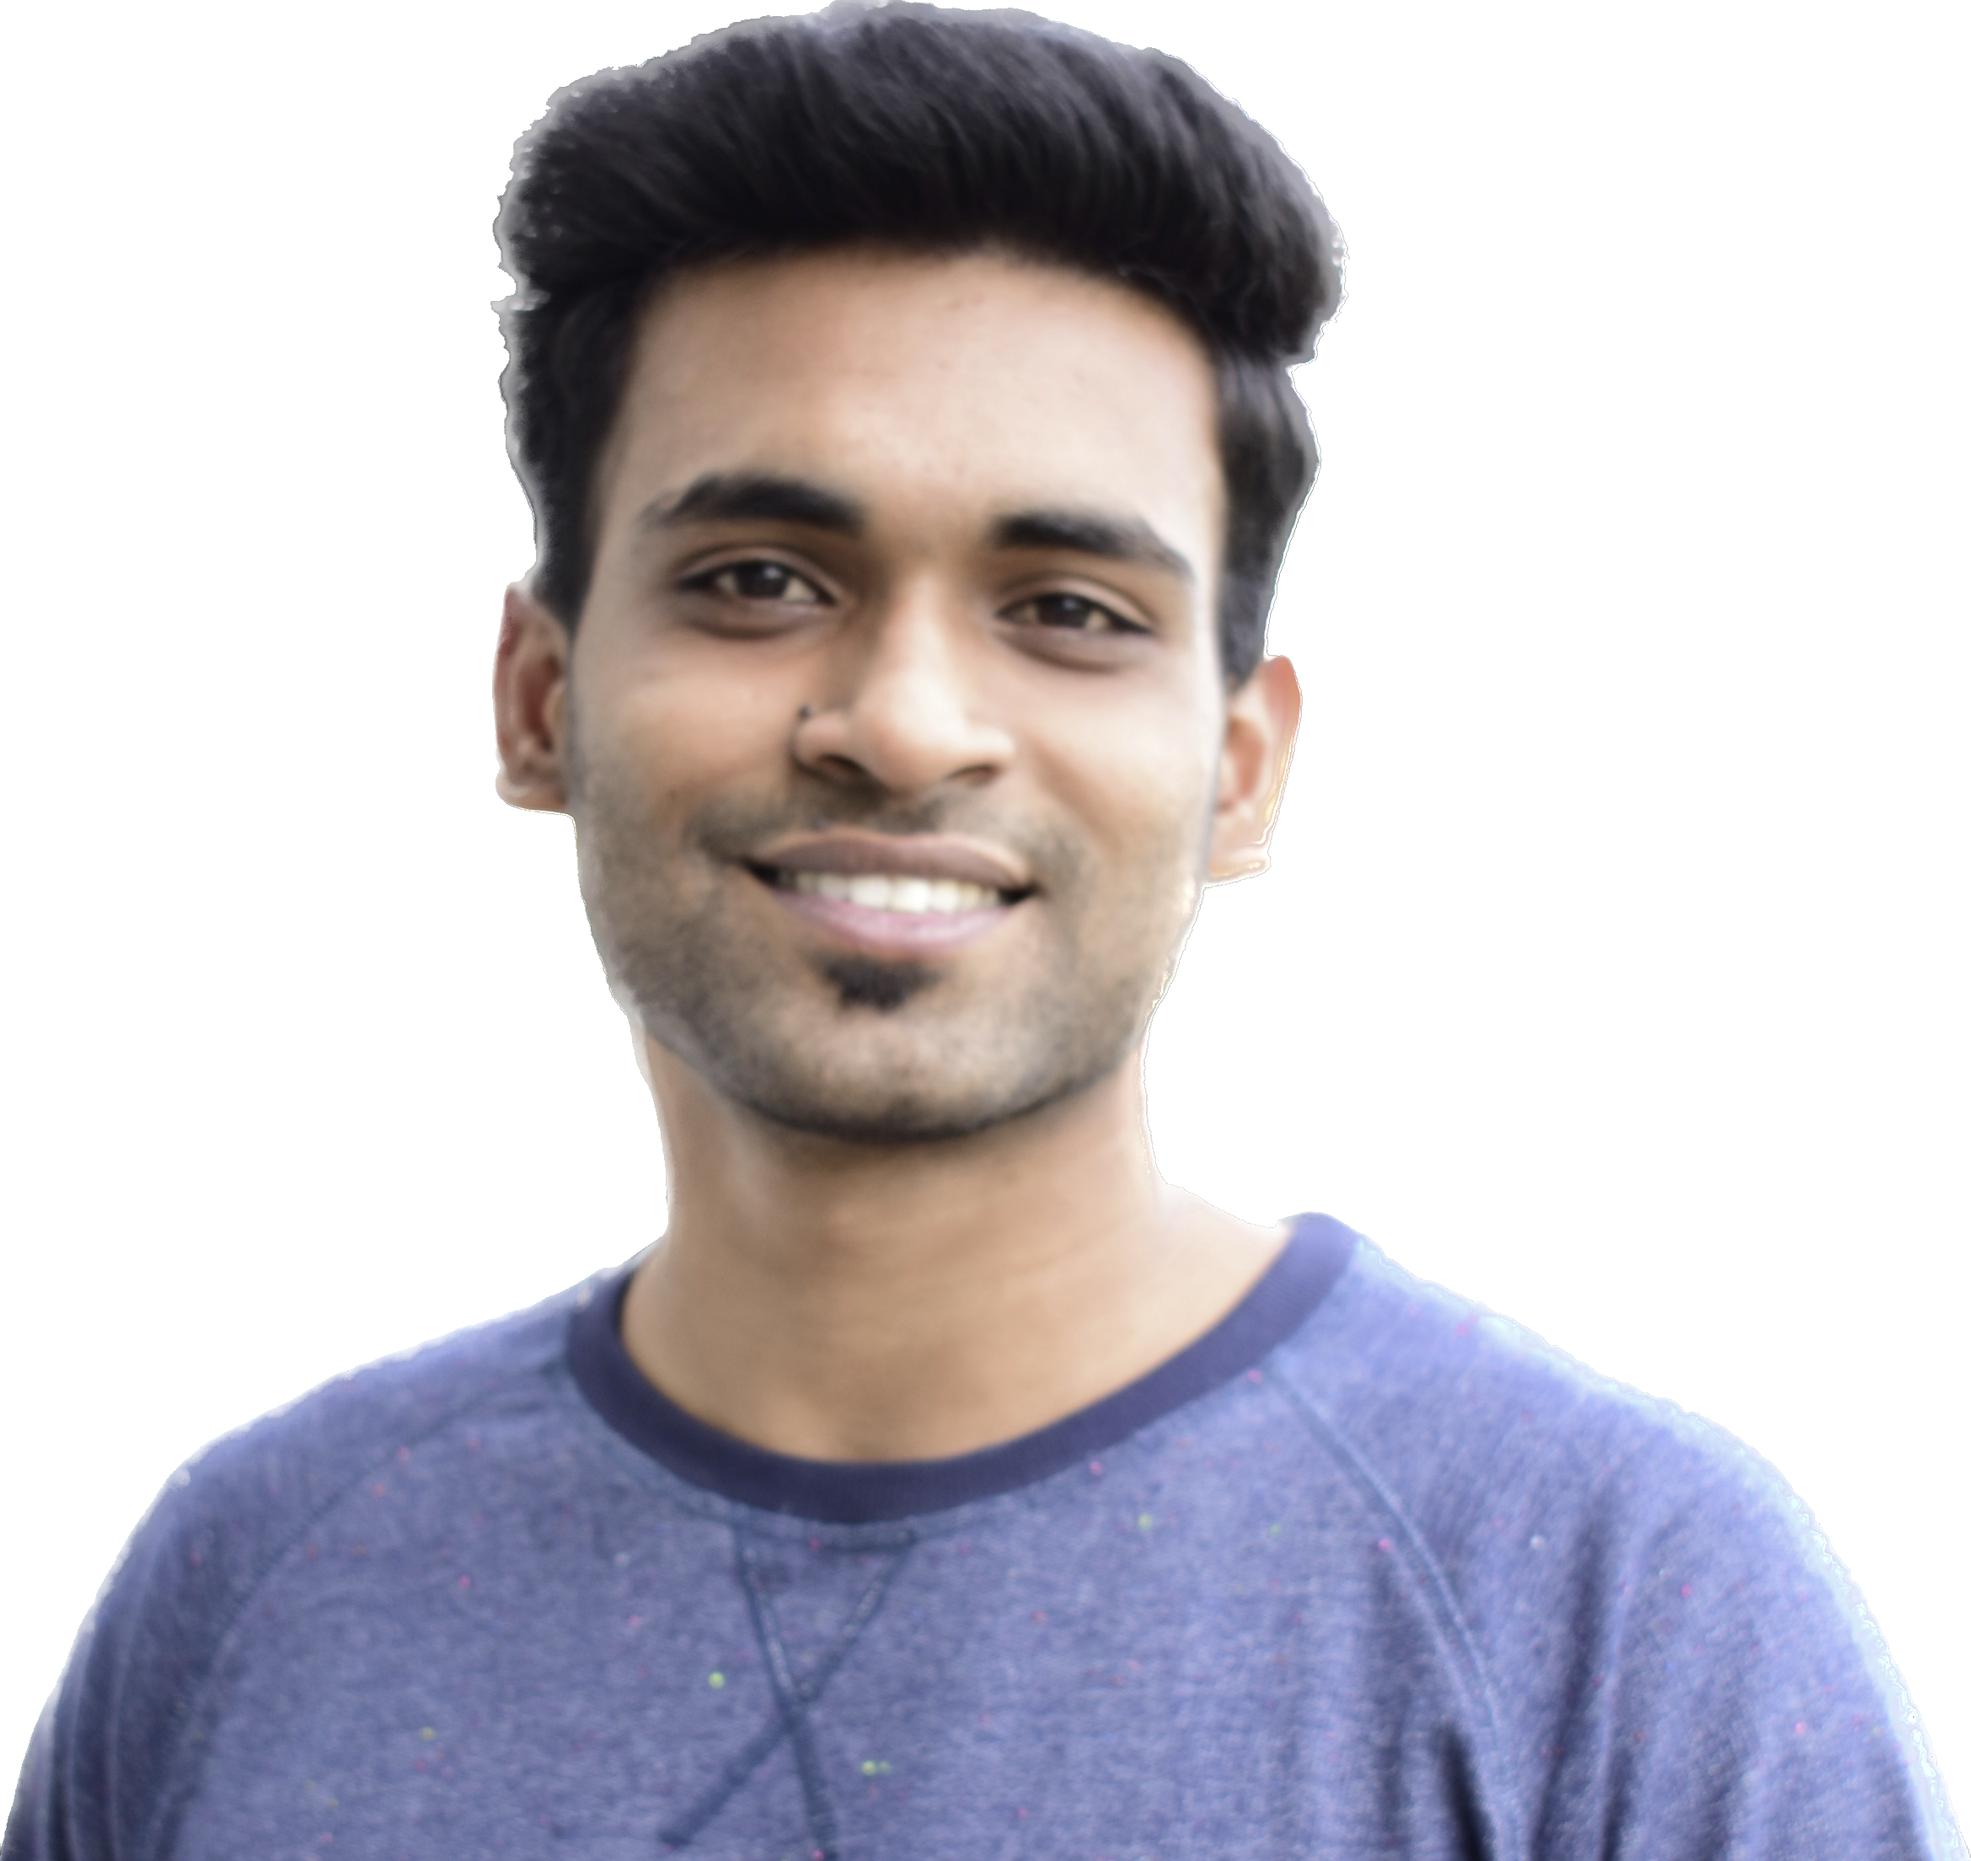
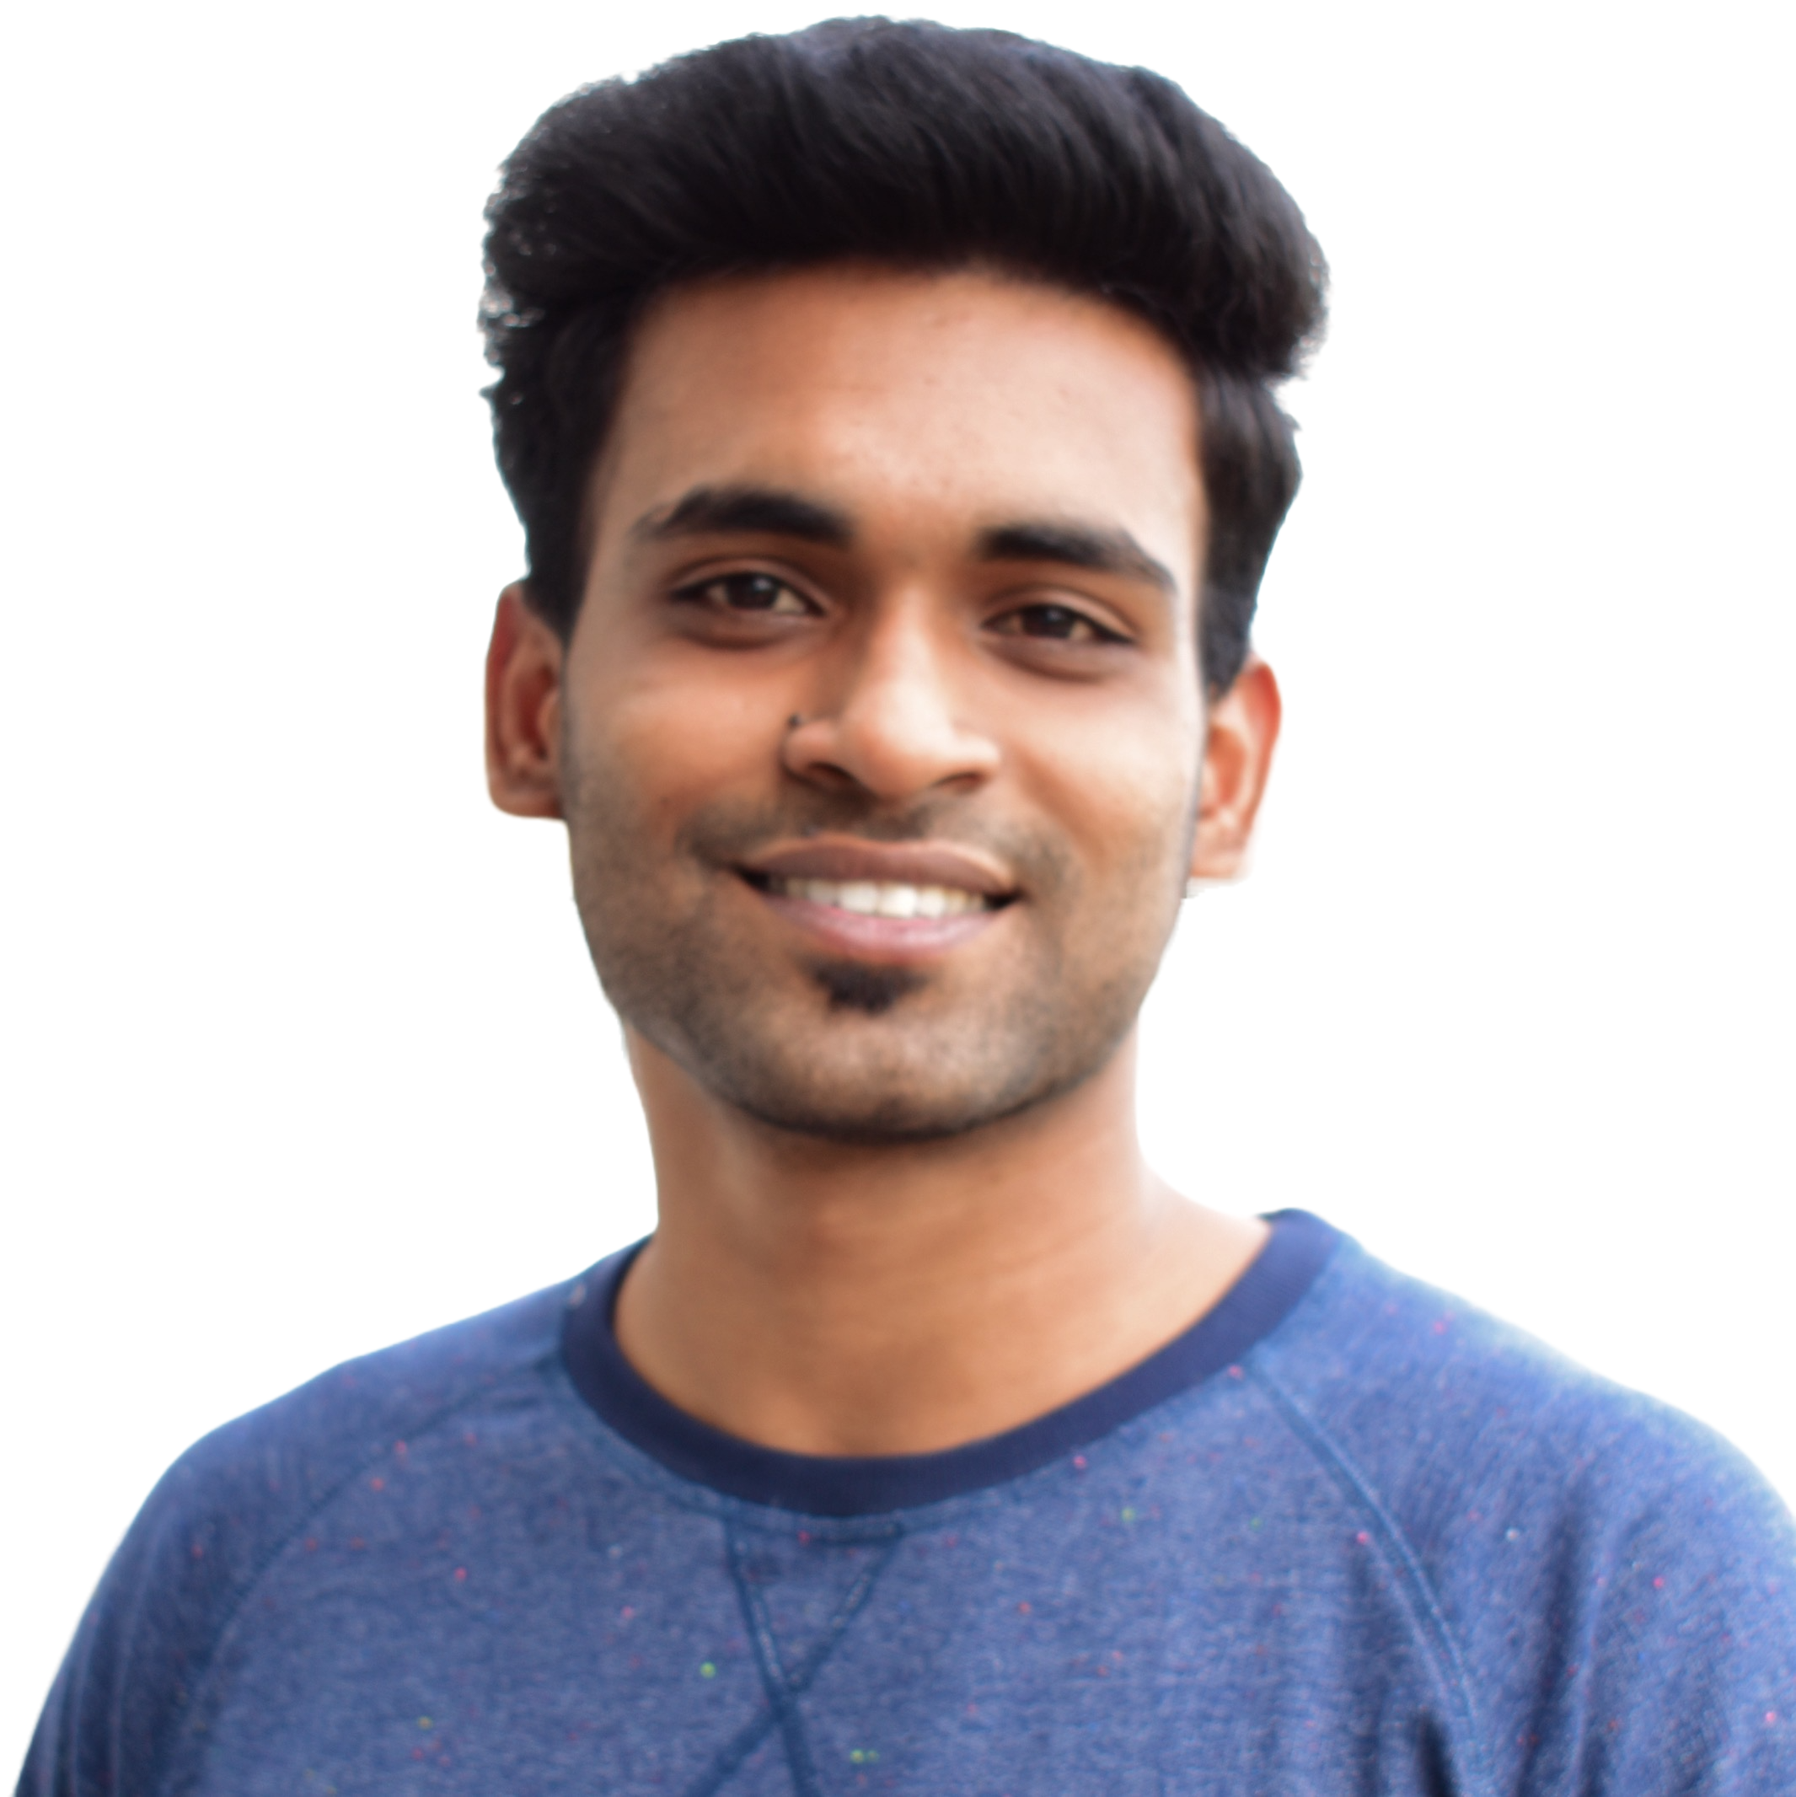
Add hero layout responsiveness

diff --git a/src/components/Hero.js b/src/components/Hero.js
@@ -1,10 +1,38 @@
 import React from "react";
-import myPhoto from "../assets/myPhoto.png";
+import myPhoto from "../assets/myPhoto-mobile.png";
 import "../styles/Hero.css";
 
 const Hero = () => {
   return (
-    <section id="Hero" className="hero-container">
+    <section
+      id="Hero"
+      className="hero-container | padding-inline padding-block"
+    >
+      <svg
+        className="profile-svg"
+        viewBox="0 0 200 187"
+        xmlns="http://www.w3.org/2000/svg"
+        xmlnsXlink="http://www.w3.org/1999/xlink"
+      >
+        <mask id="mask0" mask-type="alpha">
+          <path
+            d="M190.312 36.4879C206.582 62.1187 201.309 102.826 182.328 134.186C163.346 165.547 
+  130.807 187.559 100.226 186.353C69.6454 185.297 41.0228 161.023 21.7403 129.362C2.45775 
+  97.8511 -7.48481 59.1033 6.67581 34.5279C20.9871 10.1032 59.7028 -0.149132 97.9666 
+  0.00163737C136.23 0.303176 174.193 10.857 190.312 36.4879Z"
+          />
+        </mask>
+        <g mask="url(#mask0)">
+          <path
+            fill="#4DDA87"
+            d="M190.312 36.4879C206.582 62.1187 201.309 102.826 182.328 134.186C163.346 
+  165.547 130.807 187.559 100.226 186.353C69.6454 185.297 41.0228 161.023 21.7403 
+  129.362C2.45775 97.8511 -7.48481 59.1033 6.67581 34.5279C20.9871 10.1032 59.7028 
+  -0.149132 97.9666 0.00163737C136.23 0.303176 174.193 10.857 190.312 36.4879Z"
+          />
+          <image href={myPhoto} width={190} />
+        </g>
+      </svg>
       <div className="text-container">
         <h1 className="uppercase fs-primary-subheading fw-semi-bold">
           Hi There! I'm <br />{" "}
@@ -21,7 +49,30 @@ const Hero = () => {
           <a href="#Projects">view projects</a>
         </button>
       </div>
-      <img src={myPhoto} alt="surriya" width="700px" />
+      {/* <img src={myPhoto} alt="surriya" width="500px" /> */}
+      {/* <svg
+        width="600px"
+        viewBox="0 0 200 200"
+        xmlns="http://www.w3.org/2000/svg"
+      >
+        <mask id="mask0" mask-type="alpha">
+          <path
+            fill="#4DDA87"
+            d="M40.1,-69.2C51.2,-63.1,58.9,-50.8,64.7,-38.2C70.5,-25.6,74.5,-12.8,76.3,1C78,14.9,77.6,29.7,70.2,39.5C62.8,49.3,48.4,54,35.5,61.9C22.6,69.8,11.3,80.8,-0.9,82.3C-13,83.8,-26,75.7,-35.4,65.8C-44.7,55.9,-50.3,44.1,-57.2,32.8C-64.1,21.5,-72.3,10.8,-73.7,-0.8C-75,-12.3,-69.4,-24.6,-61.5,-34C-53.5,-43.5,-43.1,-50.1,-32.5,-56.5C-21.8,-62.8,-10.9,-68.9,1.8,-72.1C14.5,-75.2,29.1,-75.3,40.1,-69.2Z"
+            transform="translate(100 100)"
+          />
+        </mask>
+        <g mask="url(#mask0)">
+          <path
+            fill="#4DDA87"
+            d="M190.312 36.4879C206.582 62.1187 201.309 102.826 182.328 134.186C163.346 
+  165.547 130.807 187.559 100.226 186.353C69.6454 185.297 41.0228 161.023 21.7403 
+  129.362C2.45775 97.8511 -7.48481 59.1033 6.67581 34.5279C20.9871 10.1032 59.7028 
+  -0.149132 97.9666 0.00163737C136.23 0.303176 174.193 10.857 190.312 36.4879Z"
+          />
+          <image href={myPhoto} width={200} />
+        </g>
+      </svg> */}
     </section>
   );
 };

diff --git a/src/styles/index.css b/src/styles/index.css
@@ -24,19 +24,55 @@
   --clr-secondary-500: var(--alcohol);
   --clr-theme: var(--black);
 
+  --fs-100: 0.8125rem;
   --fs-200: 0.875rem;
+  --fs-300: 0.925rem;
   --fs-400: 1rem;
+  --fs-450: 1.125rem;
   --fs-500: 1.25rem;
   --fs-600: 1.5rem;
+  --fs-650: 1.75rem;
   --fs-700: 2rem;
   --fs-800: 3rem;
 
-  --fs-primary-heading: var(--fs-800);
-  --fs-primary-subheading: var(--fs-500);
-  --fs-primary-body: var(--fs-500);
-  --fs-secondary-heading: var(--fs-700);
-  --fs-secondary-body: var(--fs-400);
-  --fs-secondary-subheading: var(--fs-200);
+  --fs-primary-heading: var(--fs-650);
+  --fs-primary-subheading: var(--fs-300);
+  --fs-primary-body: var(--fs-400);
+  --fs-secondary-heading: var(--fs-600);
+  --fs-secondary-subheading: var(--fs-100);
+  --fs-secondary-body: var(--fs-300);
+
+  --padding-inline: 1rem;
+  --padding-container-top: 2rem;
+  --padding-container-bottom: 4rem;
+  --padding-block: 1rem;
+}
+
+@media (min-width: 40em) and (max-width: 70em) {
+  :root {
+    --fs-primary-heading: var(--fs-700);
+    --fs-primary-subheading: var(--fs-400);
+    --fs-primary-body: var(--fs-450);
+    --fs-secondary-heading: var(--fs-650);
+    --fs-secondary-body: var(--fs-400);
+    --fs-secondary-subheading: var(--fs-200);
+
+    --padding-inline: 2rem;
+    --padding-block: 1.5rem;
+  }
+}
+@media (min-width: 70em) {
+  :root {
+    --fs-primary-heading: var(--fs-800);
+    --fs-primary-subheading: var(--fs-500);
+    --fs-primary-body: var(--fs-500);
+    --fs-secondary-heading: var(--fs-700);
+    --fs-secondary-body: var(--fs-400);
+    --fs-secondary-subheading: var(--fs-200);
+
+    --padding-inline: 3rem;
+    --padding-block: 2rem;
+  }
 }
 
 .dark-mode {
@@ -44,6 +80,7 @@
   --clr-primary-800: var(--white);
   --clr-primary-500: var(--alcohol);
   --clr-secondary-800: var(--primary);
+  /* --clr-secondary-800: var(--secondary); */
   --clr-secondary-500: var(--secondary);
 }
 
@@ -174,6 +211,22 @@ svg.logo {
 }
 
 /* utility classes */
+
+.padding-inline {
+  padding-inline: var(--padding-inline);
+}
+
+.padding-container-top {
+  padding-top: var(--padding-container-top);
+}
+
+.padding-container-bottom {
+  padding-bottom: var(--padding-container-bottom);
+}
+
+.padding-block {
+  padding-block: var(--padding-block);
+}
 
 .uppercase {
   text-transform: uppercase;

diff --git a/src/components/SideBarNav.js b/src/components/SideBarNav.js
@@ -37,9 +37,10 @@ const SideBarNav = ({ navOpen, toggleNavOpen }) => {
 
   const list = (
     <Box
-      sx={{ width: 250, height: "100vh" }}
+      sx={{ width: 250, minHeight: "100vh" }}
       role="presentation"
       style={{ backgroundColor: theme === "dark" ? "#171c23" : "#f0fcf9" }}
+      className="padding-container-top"
     >
       <ul className="socials-container">
         <li>
@@ -68,10 +69,10 @@ const SideBarNav = ({ navOpen, toggleNavOpen }) => {
           &times;
         </button>
       </ul>
-      <ul className="link-container | fs-secondary-body fw-semi-bold">
+      <ul className="link-container | fs-primary-body fw-semi-bold">
         {["About", "Skills", "Qualification", "Projects", "Contact"].map(
-          (text) => (
-            <li>
+          (text, index) => (
+            <li key={index}>
               <button className="linkBtn">
                 <a href={`#${text}`} onClick={toggleNavOpen(false)}>
                   {text}

diff --git a/src/components/Header.js b/src/components/Header.js
@@ -7,7 +7,7 @@ import SideBarNav from "./SideBarNav";
 const Header = () => {
   const { theme, toggleTheme } = useTheme();
   const [windowWidth, setWindowWidth] = useState(window.innerWidth);
-  const [navOpen, setNavOpen] = useState(true);
+  const [navOpen, setNavOpen] = useState(false);
 
   const toggleDrawer = (open) => (event) => {
     if (
@@ -101,11 +101,11 @@ const Header = () => {
   );
 
   return (
-    <header>
+    <header className="padding-inline padding-container-top">
       <div className="logo-container">
         <a href="#Hero">
           <img src={logo} alt="logo" width="50px" />
-          <p className="fs-primary-subheading fw-bold">Surriya</p>
+          <p className="fs-primary-body fw-bold">Surriya</p>
         </a>
       </div>
       {windowWidth > 800 && (

diff --git a/src/styles/Hero.css b/src/styles/Hero.css
@@ -1,15 +1,38 @@
 .hero-container {
   display: grid;
-  grid-auto-flow: column;
-  grid-template-columns: 1.5fr 1fr;
   place-items: center;
-  max-width: 1100px;
-  padding: 2rem;
+  grid-auto-flow: row;
+  max-width: 1200px;
   margin-inline: auto;
+  gap: 2rem;
 }
 
 .text-container {
   display: grid;
   place-items: start;
-  gap: 1.5rem;
+  gap: 1rem;
+}
+
+.profile-svg {
+  min-width: 300px;
+  max-width: 400px;
+}
+
+.text-container p {
+  text-align: start;
+}
+
+@media (min-width: 50em) {
+  .hero-container {
+    grid-auto-flow: column;
+    grid-template-columns: 1.5fr 1fr;
+  }
+  .text-container {
+    gap: 1.5rem;
+  }
+
+  .profile-svg {
+    grid-column: 2;
+    min-width: 0px;
+  }
 }

diff --git a/src/components/Contact.js b/src/components/Contact.js
@@ -3,7 +3,7 @@ import ContactForm from "../components/ContactForm";
 
 const Contact = () => {
   return (
-    <section id="Contact" className="bg-accent">
+    <section id="Contact" className="bg-accent | padding-inline">
       <p className="uppercase fs-secondary-subheading fw-semi-bold text-footer">
         Get in touch
       </p>
@@ -14,8 +14,8 @@ const Contact = () => {
           maxWidth: "100%",
           overflow: "hidden",
           color: "red",
-          width: 500,
-          height: 500,
+          width: 300,
+          height: 300,
           borderRadius: "5px",
         }}
       >

diff --git a/src/components/About.js b/src/components/About.js
@@ -3,7 +3,7 @@ import aboutIllustrators from "../assets/About-me.png";
 
 const About = () => {
   return (
-    <section id="About">
+    <section id="About" className="padding-inline">
       <img src={aboutIllustrators} width="400px" alt="developer-illustrator" />
       <p className="uppercase fs-secondary-subheading fw-semi-bold">
         Let me introduce myself

diff --git a/src/styles/SideBarNav.css b/src/styles/SideBarNav.css
@@ -1,7 +1,7 @@
 .socials-container {
   display: flex;
   padding-inline: 2.5rem;
-  padding-block: 1rem;
+  /* padding-block: 1rem; */
   gap: 1rem;
   align-items: center;
 }
@@ -9,7 +9,7 @@
 .link-container {
   display: grid;
   padding-inline: 2rem;
-  padding-block: 1.5rem;
+  padding-block: 2rem;
   gap: 1rem;
 }
 

diff --git a/src/components/Qualification.js b/src/components/Qualification.js
@@ -7,7 +7,7 @@ import { work } from "../data/work";
 
 const Qualification = () => {
   return (
-    <section id="Qualification">
+    <section id="Qualification" className="padding-inline">
       <p className="uppercase fs-secondary-subheading fw-semi-bold">
         A Summary of My Background
       </p>

diff --git a/src/components/Projects.js b/src/components/Projects.js
@@ -5,7 +5,7 @@ import { v4 as uuidv4 } from "uuid";
 
 const Projects = () => {
   return (
-    <section id="Projects">
+    <section id="Projects" className="padding-inline">
       <p className="uppercase fs-secondary-subheading fw-semi-bold">
         Some of my recent work
       </p>

diff --git a/src/components/Skills.js b/src/components/Skills.js
@@ -5,7 +5,7 @@ import SkillCard from "./cards/SkillCard";
 
 const Skills = () => {
   return (
-    <section id="Skills">
+    <section id="Skills" className="padding-inline">
       <p className="uppercase fs-secondary-subheading fw-semi-bold">
         What I am good at
       </p>

diff --git a/src/components/Footer.js b/src/components/Footer.js
@@ -35,7 +35,7 @@ const Footer = () => {
   );
 
   return (
-    <footer className="bg-accent">
+    <footer className="bg-accent padding-container-bottom">
       <div className="logo">
         <a href="#hero">
           <img
